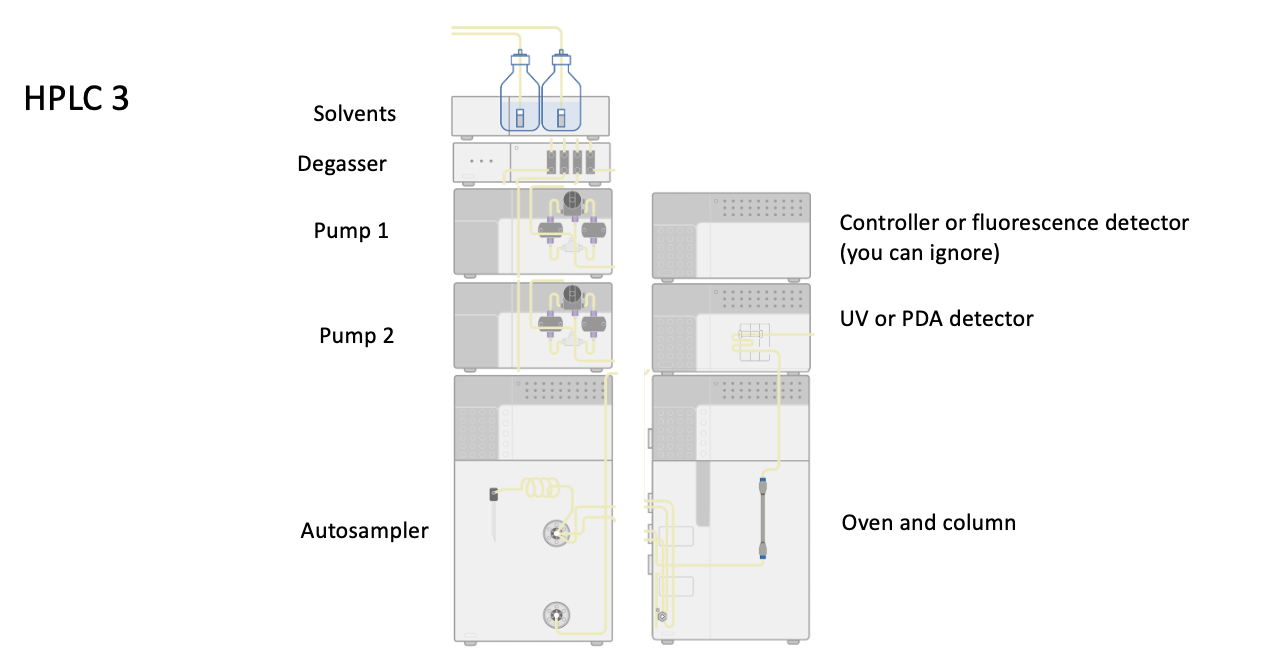
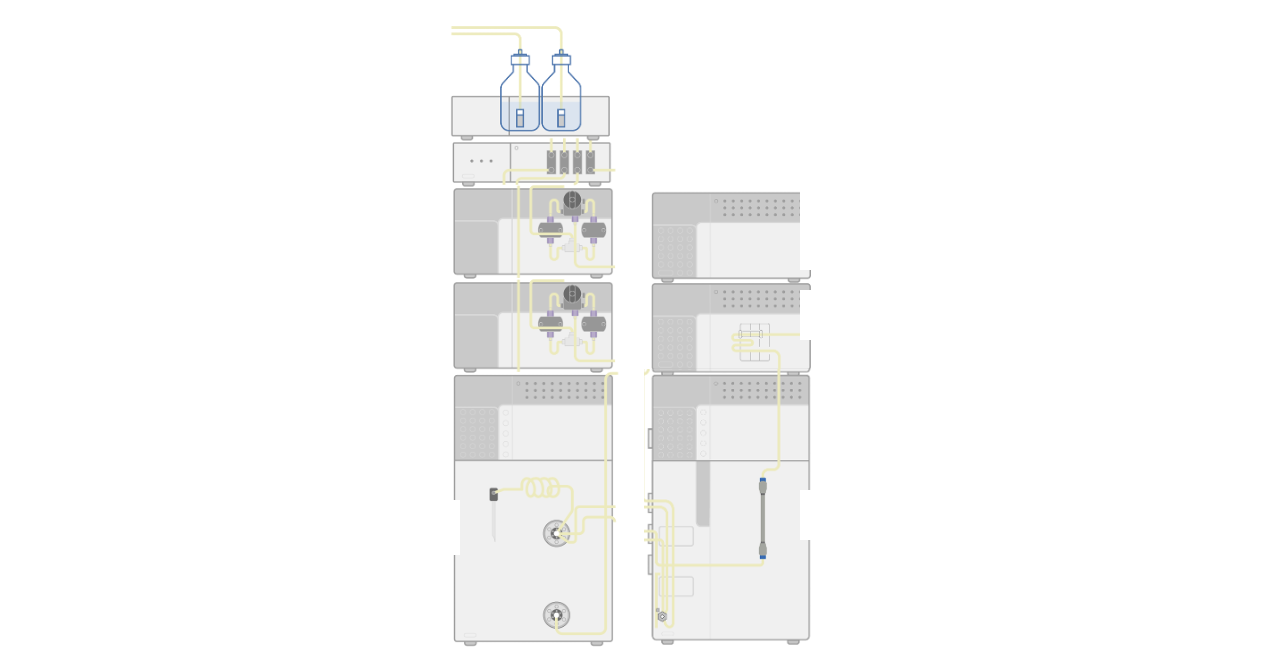
Show unlabeled HPLC diagrams and put the part note at the top right.
The three setups keep their instrument drawings. Hovering or tapping the hardware explains that part.

diff --git a/src/components/equipment-panel.tsx b/src/components/equipment-panel.tsx
@@ -61,26 +61,32 @@ const setups: Setup[] = [
     width: 1094,
     height: 508,
     parts: [
-      { id: "solvents", label: "Solvents", body: solvents, box: box(286, 108, 82, 17, 1094, 508) },
-      { id: "degasser", label: "Degasser", body: degasser, box: box(277, 190, 88, 20, 1094, 508) },
-      { id: "uv", label: "UV detector", body: uvDetector, box: box(278, 265, 119, 18, 1094, 508) },
+      { id: "solvents", label: "Solvents", body: solvents, box: box(408, 48, 180, 118, 1094, 508) },
+      { id: "degasser", label: "Degasser", body: degasser, box: box(408, 166, 180, 64, 1094, 508) },
+      { id: "uv", label: "UV detector", body: uvDetector, box: box(408, 228, 185, 100, 1094, 508) },
       {
         id: "pump",
         label: "Pump with quaternary valve",
         body: pumpQuaternary,
-        box: box(102, 373, 287, 24, 1094, 508),
+        box: box(408, 330, 180, 110, 1094, 508),
+      },
+      {
+        id: "controller",
+        label: "Controller or fluorescence detector",
+        body: controller,
+        box: box(592, 158, 175, 100, 1094, 508),
       },
       {
         id: "oven",
         label: "Oven and column",
         body: ovenAndColumn,
-        box: box(829, 322, 173, 17, 1094, 508),
+        box: box(592, 290, 180, 85, 1094, 508),
       },
       {
         id: "injector",
         label: "Manual injector",
         body: manualInjector,
-        box: box(830, 383, 156, 21, 1094, 508),
+        box: box(592, 370, 180, 70, 1094, 508),
       },
     ],
   },
@@ -91,29 +97,29 @@ const setups: Setup[] = [
     width: 1264,
     height: 660,
     parts: [
-      { id: "solvents", label: "Solvents", body: solvents, box: box(314, 104, 82, 18, 1264, 660) },
-      { id: "degasser", label: "Degasser", body: degasser, box: box(299, 155, 88, 21, 1264, 660) },
-      { id: "pump-1", label: "Pump 1", body: pumps12, box: box(315, 222, 73, 21, 1264, 660) },
-      { id: "pump-2", label: "Pump 2", body: pumps12, box: box(321, 327, 73, 21, 1264, 660) },
+      { id: "solvents", label: "Solvents", body: solvents, box: box(440, 20, 190, 120, 1264, 660) },
+      { id: "degasser", label: "Degasser", body: degasser, box: box(440, 140, 190, 50, 1264, 660) },
+      { id: "pump-1", label: "Pump 1", body: pumps12, box: box(440, 185, 190, 95, 1264, 660) },
+      { id: "pump-2", label: "Pump 2", body: pumps12, box: box(440, 278, 190, 95, 1264, 660) },
       {
         id: "controller",
         label: "Controller or fluorescence detector",
         body: controller,
-        box: box(840, 213, 349, 52, 1264, 660),
+        box: box(640, 185, 185, 95, 1264, 660),
       },
       {
         id: "detector",
         label: "UV or PDA detector",
         body: uvOrPda,
-        box: box(841, 310, 193, 18, 1264, 660),
+        box: box(640, 280, 185, 95, 1264, 660),
       },
       {
         id: "oven",
         label: "Oven and column",
         body: ovenAndColumn,
-        box: box(842, 513, 173, 18, 1264, 660),
+        box: box(640, 455, 185, 195, 1264, 660),
       },
-      { id: "autosampler", label: "Autosampler", body: autosampler, box: box(300, 521, 129, 22, 1264, 660) },
+      { id: "autosampler", label: "Autosampler", body: autosampler, box: box(440, 375, 190, 270, 1264, 660) },
     ],
   },
   {
@@ -123,33 +129,33 @@ const setups: Setup[] = [
     width: 1228,
     height: 582,
     parts: [
-      { id: "solvents", label: "Solvents", body: solvents, box: box(314, 85, 82, 17, 1228, 582) },
-      { id: "degasser", label: "Degasser", body: degasser, box: box(286, 175, 88, 20, 1228, 582) },
+      { id: "solvents", label: "Solvents", body: solvents, box: box(435, 35, 190, 125, 1228, 582) },
+      { id: "degasser", label: "Degasser", body: degasser, box: box(435, 155, 190, 55, 1228, 582) },
       {
         id: "pump",
         label: "Pump with quaternary valve",
         body: pumpQuaternary,
-        box: box(151, 249, 286, 21, 1228, 582),
+        box: box(435, 205, 190, 180, 1228, 582),
       },
       {
         id: "controller",
         label: "Controller or fluorescence detector",
         body: controller,
-        box: box(838, 137, 349, 51, 1228, 582),
+        box: box(635, 110, 185, 95, 1228, 582),
       },
       {
         id: "detector",
         label: "UV or PDA detector",
         body: uvOrPda,
-        box: box(839, 234, 193, 17, 1228, 582),
+        box: box(635, 200, 185, 140, 1228, 582),
       },
       {
         id: "oven",
         label: "Oven and column",
         body: ovenAndColumn,
-        box: box(840, 437, 173, 17, 1228, 582),
+        box: box(635, 375, 185, 195, 1228, 582),
       },
-      { id: "autosampler", label: "Autosampler", body: autosampler, box: box(299, 445, 128, 21, 1228, 582) },
+      { id: "autosampler", label: "Autosampler", body: autosampler, box: box(435, 400, 190, 170, 1228, 582) },
     ],
   },
 ];
@@ -187,12 +193,14 @@ export function EquipmentPanel({ onOpenNav }: { onOpenNav: () => void }) {
           Sections
         </Button>
       </div>
+      <div className="grid items-start gap-4 lg:grid-cols-[minmax(0,1fr)_20rem]">
+      <div className="flex min-w-0 flex-col gap-5">
       <header>
         <p className="text-xs tracking-[0.16em] text-[#0f6b56] uppercase">Lab setups</p>
         <h1 className="mt-1 font-heading text-3xl text-foreground sm:text-4xl">Equipment</h1>
         <p className="mt-2 max-w-2xl text-base text-muted-foreground">
-          Pick the HPLC in the lab. Hover or tap a label to see what that part does and which setting
-          it controls.
+          Pick the HPLC in the lab. Hover or tap a part to see what it does and which setting it
+          controls.
         </p>
       </header>
       <div id="equipment-choices" className="flex flex-wrap gap-2">
@@ -218,11 +226,11 @@ export function EquipmentPanel({ onOpenNav }: { onOpenNav: () => void }) {
           );
         })}
       </div>
-      <figure className="overflow-hidden rounded-xl bg-card ring-1 ring-foreground/10">
+      <figure className="rounded-xl bg-card ring-1 ring-foreground/10">
         <div className="relative">
           <img
             src={setup.src}
-            alt={`Labeled diagram of ${setup.label}`}
+            alt={`Diagram of ${setup.label}`}
             width={setup.width}
             height={setup.height}
             className="block h-auto w-full"
@@ -259,20 +267,22 @@ export function EquipmentPanel({ onOpenNav }: { onOpenNav: () => void }) {
             );
           })}
         </div>
+      </figure>
+      </div>
+      <aside
+        id="equipment-note"
+        className="rounded-xl bg-card px-4 py-4 text-sm leading-relaxed text-foreground ring-1 ring-foreground/10 lg:sticky lg:top-4"
+      >
         {open ? (
-          <figcaption
-            id="equipment-note"
-            className="border-t border-border px-4 py-3 text-sm leading-relaxed text-foreground"
-          >
+          <>
             <p className="font-medium">{open.label}</p>
             <p className="mt-1">{open.body}</p>
-          </figcaption>
+          </>
         ) : (
-          <figcaption className="border-t border-border px-4 py-3 text-sm text-muted-foreground">
-            Hover or tap a label on the diagram.
-          </figcaption>
+          <p className="text-muted-foreground">Hover or tap a part of the instrument.</p>
         )}
-      </figure>
+      </aside>
+      </div>
     </div>
   );
 }
